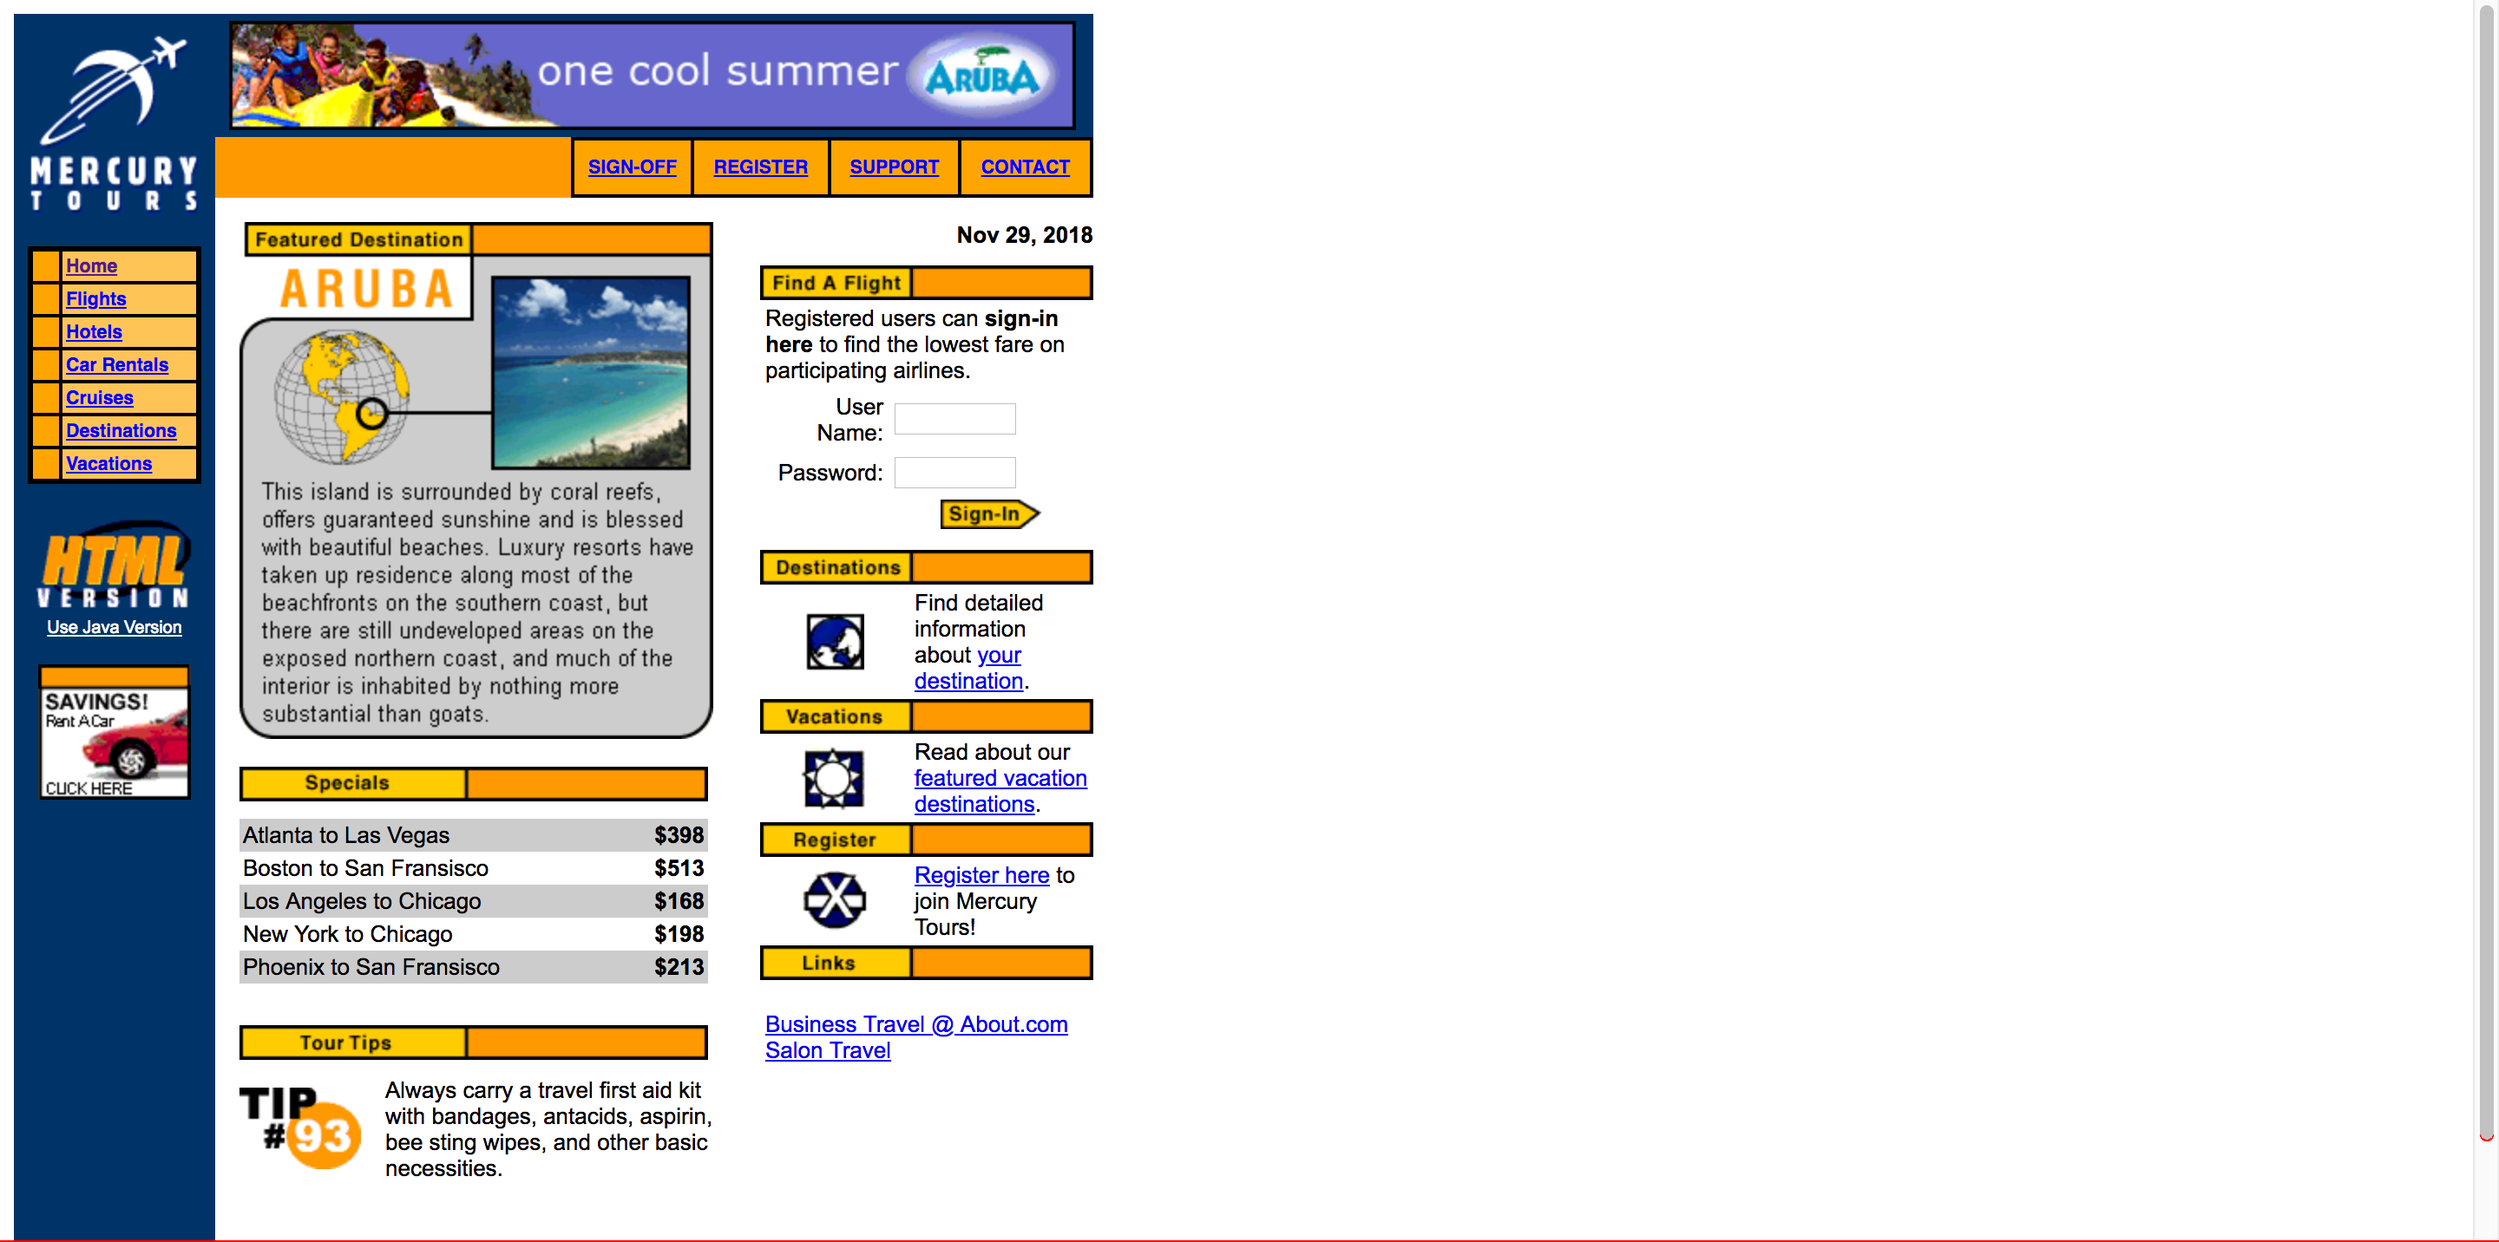
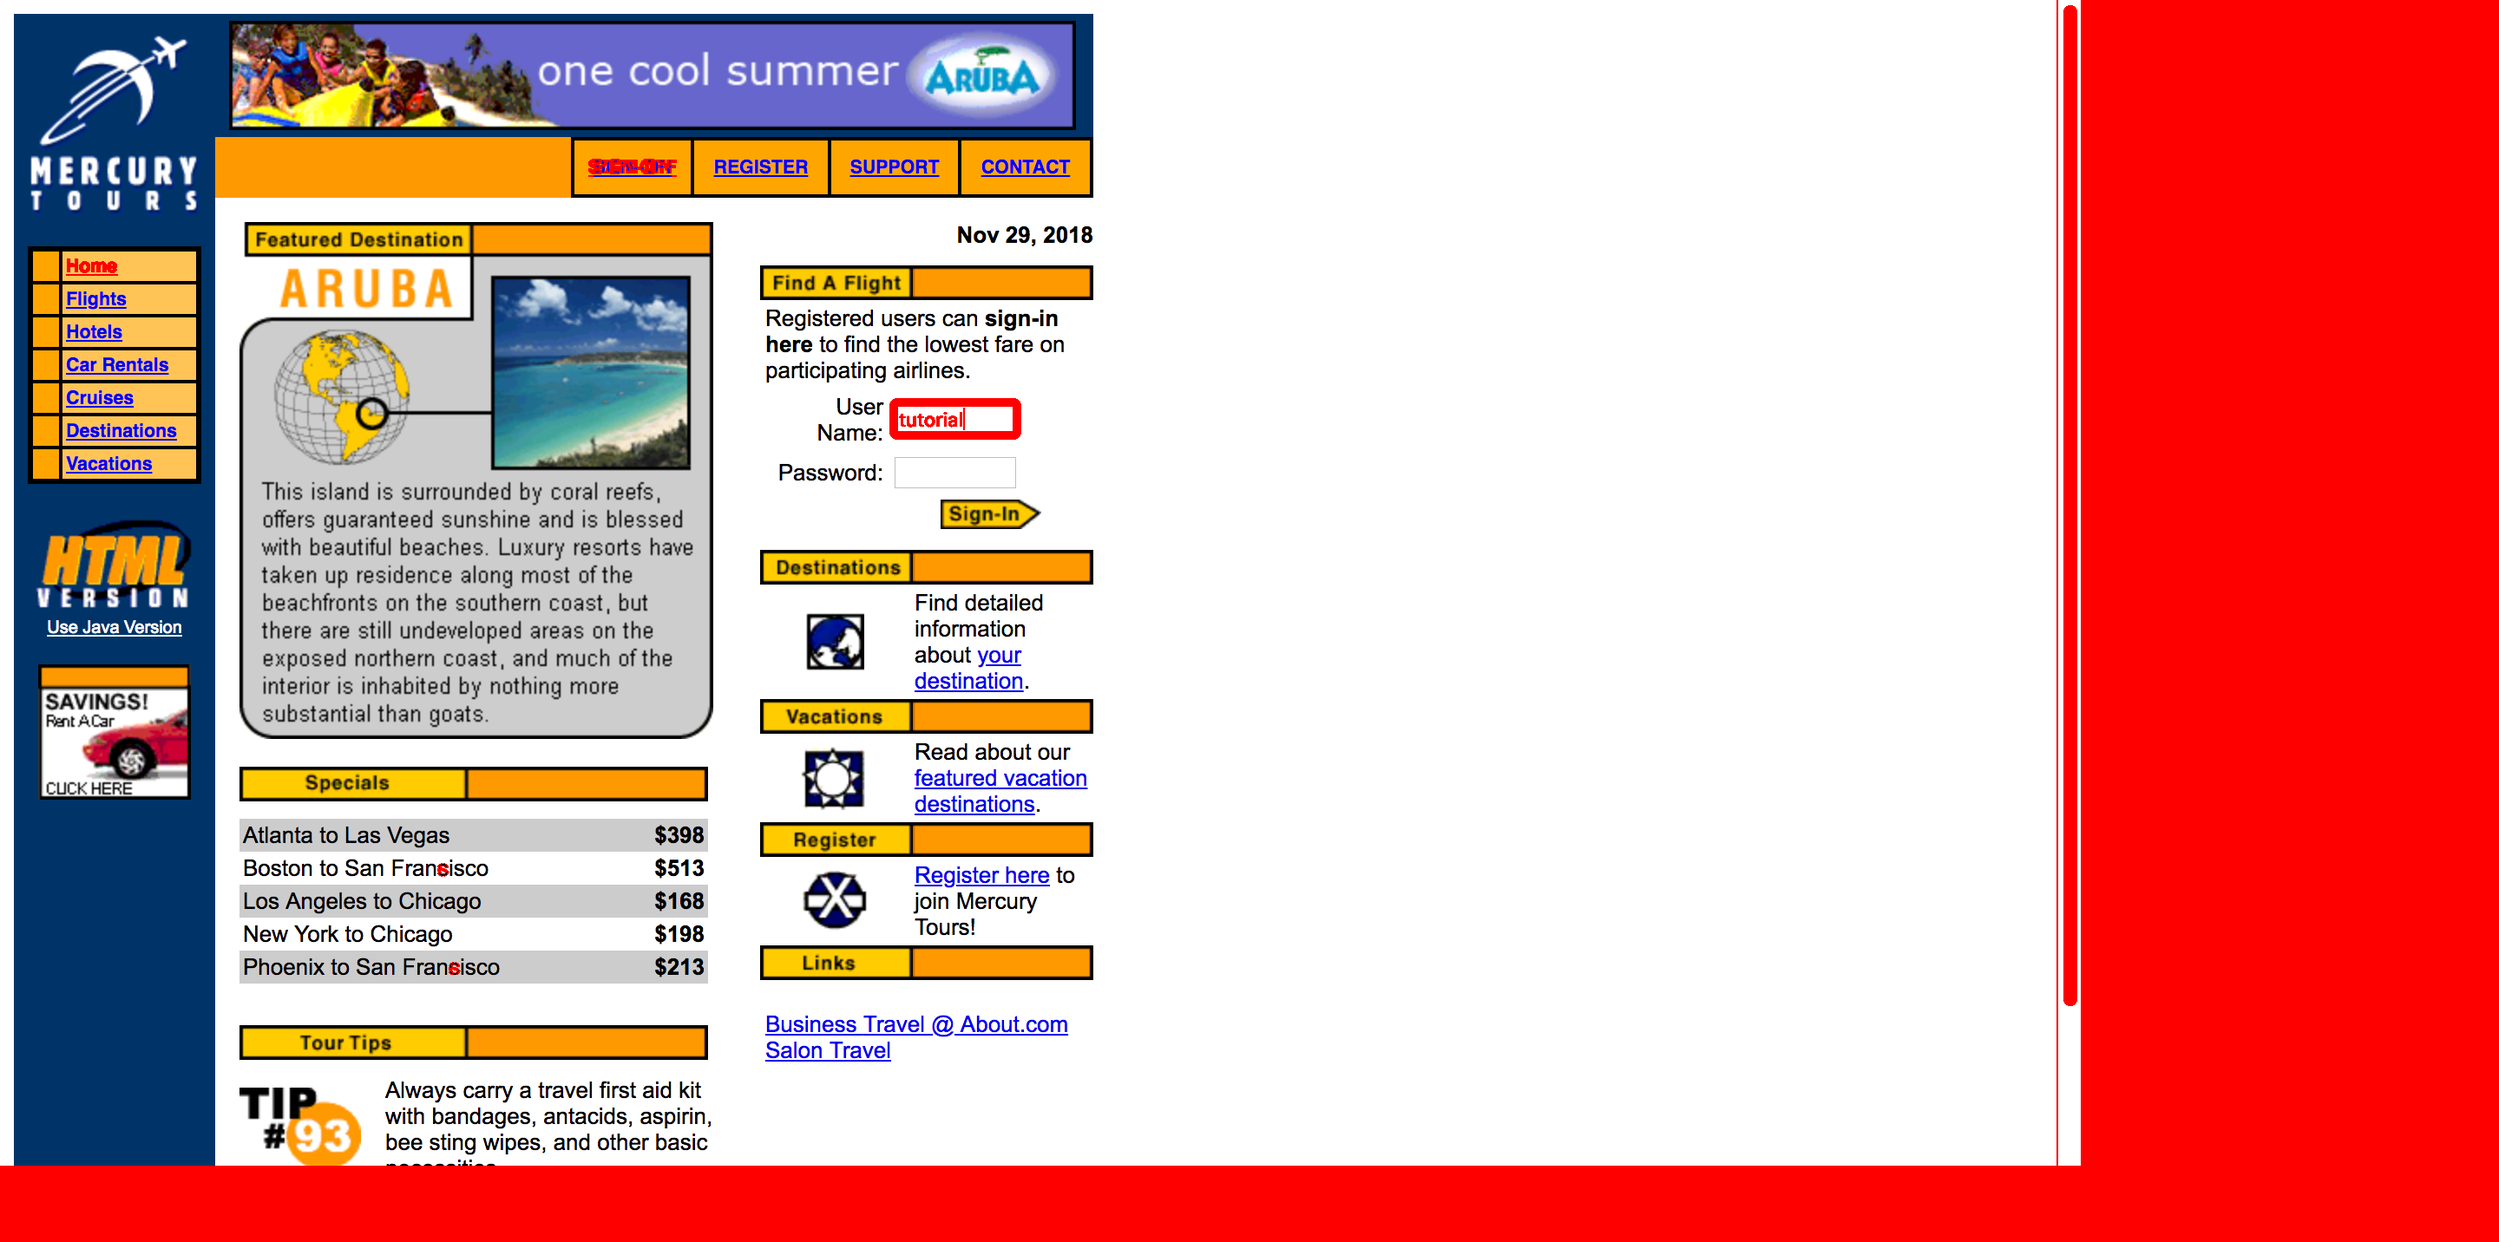
Scrolling was added

Changed region(s): [[0.0, 0.0, 1.0, 1.0], [0.3438, 0.3073, 0.4062, 0.3687], [0.2188, 0.1229, 0.2812, 0.1536]]

diff --git a/report/Report.html b/report/Report.html
@@ -53,7 +53,7 @@
 					<i class='mdi-hardware-desktop-windows'></i>
 				</li>
 				<li>
-					<span class='suite-started-time'>2018-11-29 15:42:40</span>
+					<span class='suite-started-time'>2018-11-29 16:55:05</span>
 				</li>
 				<li>
 					<span>v2.41.1</span>
@@ -83,25 +83,25 @@
 					<div class='col l2 m4 s12'>
 						<div class='card suite-total-time-current'> 
 							<span class='panel-name'>Total Time Taken (Current Run)</span> 
-							<span class='suite-total-time-current-value panel-lead'>0h 0m 29s+948ms</span> 
+							<span class='suite-total-time-current-value panel-lead'>0h 0m 19s+314ms</span> 
 						</div> 
 					</div>
 					<div class='col l2 m4 s12'>
 						<div class='card suite-total-time-overall'> 
 							<span class='panel-name'>Total Time Taken (Overall)</span> 
-							<span class='suite-total-time-overall-value panel-lead'>0h 0m 29s+948ms</span> 
+							<span class='suite-total-time-overall-value panel-lead'>0h 0m 19s+314ms</span> 
 						</div> 
 					</div>
 					<div class='col l2 m4 s6 suite-start-time'>
 						<div class='card accent green-accent'> 
 							<span class='panel-name'>Start</span> 
-							<span class='panel-lead suite-started-time'>2018-11-29 15:42:10</span> 
+							<span class='panel-lead suite-started-time'>2018-11-29 16:54:45</span> 
 						</div> 
 					</div>
 					<div class='col l2 m4 s6 suite-end-time'>
 						<div class='card accent pink-accent'> 
 							<span class='panel-name'>End</span> 
-							<span class='panel-lead suite-ended-time'>2018-11-29 15:42:40</span> 
+							<span class='panel-lead suite-ended-time'>2018-11-29 16:55:05</span> 
 						</div> 
 					</div>
 				</div>
@@ -237,7 +237,7 @@
 						<div class='card-panel no-padding-h no-padding-v no-margin-v'>
 							<div class='wrapper'>
 								<ul id='test-collection' class='test-collection'>
-										<li class='collection-item test displayed active fail ' extentid='5382a9c9-a0f2-47a4-99e3-d2ee15bc7d45'>
+										<li class='collection-item test displayed active fail ' extentid='12c6b4fc-e3f7-42ed-b095-dd025c9ef699'>
 											<div class='test-head'>
 												<span class='test-name'>regression || http://newtours.demoaut.com/mercurywelcome.php </span>
 												<span class='test-status label right outline capitalize fail'>fail</span>
@@ -245,7 +245,7 @@
 											</div>
 											<div class='test-body'>
 												<div class='test-info'>
-													<span title='Test started time' alt='Test started time' class='test-started-time label green lighten-1 text-white'>2018-11-29 15:42:27</span>
+													<span title='Test started time' alt='Test started time' class='test-started-time label green lighten-1 text-white'>2018-11-29 16:54:53</span>
 													<span title='Test ended time' alt='Test ended time' class='test-ended-time label red lighten-1 text-white'></span>
 													<span title='Time taken to finish' alt='Time taken to finish' class='test-time-taken label blue-grey lighten-3 text-white'></span>
 												</div>
@@ -265,7 +265,7 @@
 														<tbody>
 																<tr>
 																	<td class='status fail' title='fail' alt='fail'><i class='mdi-navigation-cancel'></i></td>
-																	<td class='timestamp'>15:42:31</td>
+																	<td class='timestamp'>16:54:56</td>
 																		<td class='step-name'>Test failed</td>
 																	<td class='step-details'>screenshot: 
 <a href='../src/images/diffimages/homePage.png' data-featherlight='image'><img class='report-img' src='../src/images/diffimages/homePage.png' /></a></td>
@@ -277,7 +277,7 @@
 												</div>
 											</div>
 										</li>
-										<li class='collection-item test displayed active fail ' extentid='6f59a6f5-1f7e-4495-997b-e4c6b12699f1'>
+										<li class='collection-item test displayed active fail ' extentid='005ebf68-d598-466d-b883-91aba616e2ea'>
 											<div class='test-head'>
 												<span class='test-name'>regression || http://newtours.demoaut.com/mercuryreservation.php </span>
 												<span class='test-status label right outline capitalize fail'>fail</span>
@@ -285,7 +285,7 @@
 											</div>
 											<div class='test-body'>
 												<div class='test-info'>
-													<span title='Test started time' alt='Test started time' class='test-started-time label green lighten-1 text-white'>2018-11-29 15:42:31</span>
+													<span title='Test started time' alt='Test started time' class='test-started-time label green lighten-1 text-white'>2018-11-29 16:54:56</span>
 													<span title='Test ended time' alt='Test ended time' class='test-ended-time label red lighten-1 text-white'></span>
 													<span title='Time taken to finish' alt='Time taken to finish' class='test-time-taken label blue-grey lighten-3 text-white'></span>
 												</div>
@@ -305,7 +305,7 @@
 														<tbody>
 																<tr>
 																	<td class='status fail' title='fail' alt='fail'><i class='mdi-navigation-cancel'></i></td>
-																	<td class='timestamp'>15:42:34</td>
+																	<td class='timestamp'>16:54:59</td>
 																		<td class='step-name'>Test failed</td>
 																	<td class='step-details'>screenshot: 
 <a href='../src/images/diffimages/reservationPage.png' data-featherlight='image'><img class='report-img' src='../src/images/diffimages/reservationPage.png' /></a></td>
@@ -317,7 +317,7 @@
 												</div>
 											</div>
 										</li>
-										<li class='collection-item test displayed active fail ' extentid='e85ae36b-c368-4479-8afa-d988fb374203'>
+										<li class='collection-item test displayed active fail ' extentid='7678d5ab-a721-471a-88af-4f1a27b5802d'>
 											<div class='test-head'>
 												<span class='test-name'>regression || http://newtours.demoaut.com/mercuryreservation2.php </span>
 												<span class='test-status label right outline capitalize fail'>fail</span>
@@ -325,7 +325,7 @@
 											</div>
 											<div class='test-body'>
 												<div class='test-info'>
-													<span title='Test started time' alt='Test started time' class='test-started-time label green lighten-1 text-white'>2018-11-29 15:42:34</span>
+													<span title='Test started time' alt='Test started time' class='test-started-time label green lighten-1 text-white'>2018-11-29 16:54:59</span>
 													<span title='Test ended time' alt='Test ended time' class='test-ended-time label red lighten-1 text-white'></span>
 													<span title='Time taken to finish' alt='Time taken to finish' class='test-time-taken label blue-grey lighten-3 text-white'></span>
 												</div>
@@ -345,7 +345,7 @@
 														<tbody>
 																<tr>
 																	<td class='status fail' title='fail' alt='fail'><i class='mdi-navigation-cancel'></i></td>
-																	<td class='timestamp'>15:42:37</td>
+																	<td class='timestamp'>16:55:02</td>
 																		<td class='step-name'>Test failed</td>
 																	<td class='step-details'>screenshot: 
 <a href='../src/images/diffimages/reservationPage2.png' data-featherlight='image'><img class='report-img' src='../src/images/diffimages/reservationPage2.png' /></a></td>
@@ -357,7 +357,7 @@
 												</div>
 											</div>
 										</li>
-										<li class='collection-item test displayed active fail ' extentid='f5671872-8df5-4cb7-ba69-f4ecb59dd202'>
+										<li class='collection-item test displayed active fail ' extentid='2235cabb-5d51-46f4-868f-42d1c22991b2'>
 											<div class='test-head'>
 												<span class='test-name'>regression || http://newtours.demoaut.com/mercurypurchase.php </span>
 												<span class='test-status label right outline capitalize fail'>fail</span>
@@ -365,9 +365,9 @@
 											</div>
 											<div class='test-body'>
 												<div class='test-info'>
-													<span title='Test started time' alt='Test started time' class='test-started-time label green lighten-1 text-white'>2018-11-29 15:42:37</span>
-													<span title='Test ended time' alt='Test ended time' class='test-ended-time label red lighten-1 text-white'>2018-11-29 15:42:40</span>
-													<span title='Time taken to finish' alt='Time taken to finish' class='test-time-taken label blue-grey lighten-3 text-white'>0h 0m 3s+123ms</span>
+													<span title='Test started time' alt='Test started time' class='test-started-time label green lighten-1 text-white'>2018-11-29 16:55:02</span>
+													<span title='Test ended time' alt='Test ended time' class='test-ended-time label red lighten-1 text-white'>2018-11-29 16:55:04</span>
+													<span title='Time taken to finish' alt='Time taken to finish' class='test-time-taken label blue-grey lighten-3 text-white'>0h 0m 2s+874ms</span>
 												</div>
 												<div class='test-desc'></div>
 												<div class='test-attributes'>
@@ -385,7 +385,7 @@
 														<tbody>
 																<tr>
 																	<td class='status fail' title='fail' alt='fail'><i class='mdi-navigation-cancel'></i></td>
-																	<td class='timestamp'>15:42:40</td>
+																	<td class='timestamp'>16:55:04</td>
 																		<td class='step-name'>Test failed</td>
 																	<td class='step-details'>screenshot: 
 <a href='../src/images/diffimages/purchasePage.png' data-featherlight='image'><img class='report-img' src='../src/images/diffimages/purchasePage.png' /></a></td>

diff --git a/src/test/java/FirstTest.java b/src/test/java/FirstTest.java
@@ -16,10 +16,10 @@ public class FirstTest {
 
         return new Object[][] {
 
-                {"http://newtours.demoaut.com/mercurywelcome.php", "homePage"},
-                {"http://newtours.demoaut.com/mercuryreservation.php", "reservationPage"},
-                {"http://newtours.demoaut.com/mercuryreservation2.php","reservationPage2"},
-                {"http://newtours.demoaut.com/mercurypurchase.php", "purchasePage"}
+                {"http://newtours.demoaut.com/mercurywelcome.php", "homePageImpr"},
+                {"http://newtours.demoaut.com/mercuryreservation.php", "reservationPageImpr"},
+                {"http://newtours.demoaut.com/mercuryreservation2.php","reservationPage2Impr"},
+                {"http://newtours.demoaut.com/mercurypurchase.php", "purchasePageImpr"}
         };
     }
 
@@ -28,8 +28,8 @@ public class FirstTest {
     {
         driver = new ChromeDriver();
         driver.get("http://newtours.demoaut.com/");
-        driver.manage().timeouts().implicitlyWait(10,TimeUnit.SECONDS);
-        driver.manage().window().maximize();
+        //driver.manage().timeouts().implicitlyWait(10,TimeUnit.SECONDS);
+        //driver.manage().window().maximize();
 
         driver.findElement(By.name("userName")).sendKeys("tutorial");
         driver.findElement(By.name("password")).sendKeys("tutorial");
@@ -45,12 +45,9 @@ public class FirstTest {
         System.setProperty("webdriver.chrome.driver", System.getProperty("user.dir")+"/src/drivers/chromedriver");
         driver = new ChromeDriver();
         driver.get("http://newtours.demoaut.com/");
-        driver.manage().timeouts().implicitlyWait(10,TimeUnit.SECONDS);
-        driver.manage().window().maximize();
-        try
-        {
-            Thread.sleep(3000);
-        } catch (InterruptedException e){}
+        //driver.manage().timeouts().implicitlyWait(10,TimeUnit.SECONDS);
+        //driver.manage().window().maximize();
+
         new ScreenCaptureUtility().takePageScreenshot(driver, "srcHomePage");
         Assert.assertTrue(new ScreenCaptureUtility().areImageEqual("homePage", "srcHomePage"));
 
@@ -62,12 +59,9 @@ public class FirstTest {
         System.setProperty("webdriver.chrome.driver", System.getProperty("user.dir")+"/src/drivers/chromedriver");
         driver = new ChromeDriver();
         driver.get("http://newtours.demoaut.com/");
-        driver.manage().timeouts().implicitlyWait(10,TimeUnit.SECONDS);
-        driver.manage().window().maximize();
-        try
-        {
-            Thread.sleep(3000);
-        } catch (InterruptedException e){}
+        //driver.manage().timeouts().implicitlyWait(10,TimeUnit.SECONDS);
+        //driver.manage().window().maximize();
+
         driver.findElement(By.name("userName")).sendKeys("tutorial");
         new ScreenCaptureUtility().takePageScreenshot(driver, "srcHomePage");
         Assert.assertTrue(new ScreenCaptureUtility().areImageEqual("homePage", "srcHomePage"));
@@ -80,8 +74,8 @@ public class FirstTest {
         System.setProperty("webdriver.chrome.driver", System.getProperty("user.dir")+"/src/drivers/chromedriver");
         driver = new ChromeDriver();
         driver.get("http://newtours.demoaut.com/");
-        driver.manage().timeouts().implicitlyWait(10,TimeUnit.SECONDS);
-        driver.manage().window().maximize();
+        //driver.manage().timeouts().implicitlyWait(10,TimeUnit.SECONDS);
+        //driver.manage().window().maximize();
 
         new ScreenCaptureUtility().takePageScreenshot(driver, "myImage1");
         driver.close();
@@ -93,8 +87,8 @@ public class FirstTest {
         System.setProperty("webdriver.chrome.driver", System.getProperty("user.dir")+"/src/drivers/chromedriver");
         driver = new ChromeDriver();
         driver.get("http://newtours.demoaut.com/");
-        driver.manage().timeouts().implicitlyWait(10,TimeUnit.SECONDS);
-        driver.manage().window().maximize();
+        //driver.manage().timeouts().implicitlyWait(10,TimeUnit.SECONDS);
+        //driver.manage().window().maximize();
         WebElement logo = driver.findElement(By.xpath("//img[@alt='Mercury Tours']"));
 
         new ScreenCaptureUtility().takeElementScreenshot(driver, "logoImage", logo);

diff --git a/src/main/java/ScreenCaptureUtility.java b/src/main/java/ScreenCaptureUtility.java
@@ -5,6 +5,7 @@ import ru.yandex.qatools.ashot.Screenshot;
 import ru.yandex.qatools.ashot.comparison.ImageDiff;
 import ru.yandex.qatools.ashot.comparison.ImageDiffer;
 import ru.yandex.qatools.ashot.coordinates.WebDriverCoordsProvider;
+import ru.yandex.qatools.ashot.shooting.ShootingStrategies;
 
 import javax.imageio.ImageIO;
 import java.awt.image.BufferedImage;
@@ -53,9 +54,23 @@ public class ScreenCaptureUtility
 
     }
 
+    public void takePageScreenshotImproved(WebDriver driver, String name)
+    {
+        Screenshot screen = new AShot().shootingStrategy(ShootingStrategies.viewportPasting(1000)).takeScreenshot(driver);
+        BufferedImage bi = screen.getImage();
+
+        File file;
+        file = new File(System.getProperty("user.dir")+"/src/images/screenshots/" + name + ".png");
+        try
+        {
+            ImageIO.write(bi,"png", file);
+        } catch (IOException e) {}
+
+    }
+
     public void prepareBaseline(WebDriver driver, String name)
     {
-        Screenshot screen = new AShot().takeScreenshot(driver);
+        Screenshot screen = new AShot().shootingStrategy(ShootingStrategies.viewportPasting(1000)).takeScreenshot(driver);
         BufferedImage bi = screen.getImage();
 
         File file;

diff --git a/src/test/java/Regression.java b/src/test/java/Regression.java
@@ -39,11 +39,6 @@ public class Regression {
         driver.manage().timeouts().implicitlyWait(10,TimeUnit.SECONDS);
         driver.manage().window().maximize();
 
-        try
-        {
-            Thread.sleep(3000);
-        } catch (InterruptedException e){}
-
         driver.findElement(By.name("userName")).sendKeys("tutorial");
         driver.findElement(By.name("password")).sendKeys("tutorial");
         driver.findElement(By.name("login")).click();
